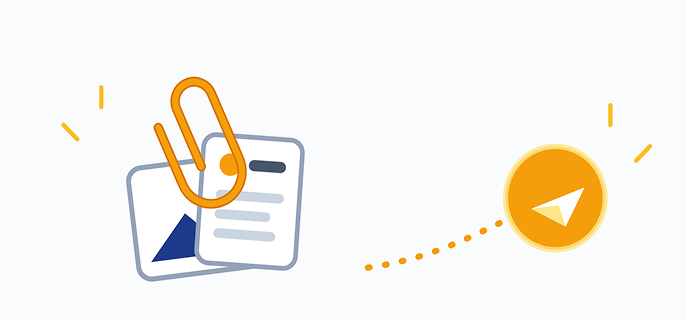
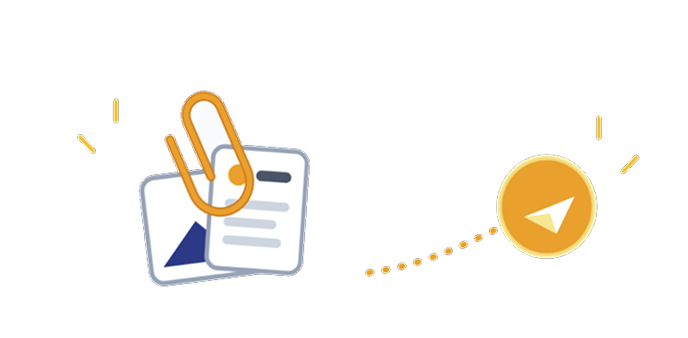
피그마 랜딩페이지_커리어코치(6:148) 기준 최신화: 투명 일러스트 6종 교체·회색 박스 제거·표시 비율 갱신, 스텝 4개 한 줄 문구, 좁은 화면 줄수 보정, 검수 기준을 섹션→프레임으로 변경

diff --git a/index.html b/index.html
@@ -77,7 +77,8 @@ fbq('track', 'PageView');
   .eyebrow{color:var(--amber-600)}
   .headline{color:var(--navy-900);text-align:center;white-space:pre-line}
   .lead{color:var(--gray-600);text-align:center;white-space:pre-line}
-  .illust{width:100%;border-radius:12px;display:block;background:var(--gray-100)}
+  /* 일러스트는 배경이 투명한 PNG — 회색 박스를 씌우지 않는다 (2026-08-01, 신규 6종) */
+  .illust{width:100%;border-radius:12px;display:block}
 
   /* ===== 히어로 ===== */
   .hero-badge{background:var(--amber-100);color:var(--amber-600);padding:7px 15px;border-radius:999px}
@@ -171,6 +172,13 @@ fbq('track', 'PageView');
   .floating-cta:active{transform:translateX(-50%) scale(.98)}
   .floating-cta svg{flex:none}
 
+  /* 360px급 좁은 화면(갤럭시 등)에서도 피그마와 같은 줄 수를 유지한다.
+     390px에서는 2줄인 헤딩 2곳과 스텝4가 360px에서 한 줄씩 더 늘어나는 것을 막는 최소 보정. */
+  @media (max-width:389px){
+    .headline{font-size:27px;line-height:35px}
+    .step .t-h3{font-size:16px}
+  }
+
   @media (prefers-reduced-motion: no-preference){
     section{opacity:0;transform:translateY(12px);transition:opacity .5s ease,transform .5s ease}
     section.in{opacity:1;transform:none}
@@ -204,7 +212,7 @@ fbq('track', 'PageView');
         <h2 class="t-display headline">관심 있는 회사 공고가 열리면
 일단 지원해 보세요</h2>
       </div>
-      <img class="illust" src="assets/img-apply.png" alt="이력서 제출 일러스트" width="344" height="160">
+      <img class="illust" src="assets/img-apply.png" alt="이력서 제출 일러스트" width="344" height="169">
       <p class="t-body" style="color:var(--gray-700);width:100%">지금 가지고 있는 포트폴리오·이력서로 일단 넣으세요.<br><strong>불합격 해도 다음 지원에 패널티가 전혀 없어요.</strong><br>오히려 여러 번 도전하면, ‘우리 회사를 이렇게 좋아하면 잘 적응할 확률이 크다’고 판단해 더 좋게 봐요.<br><strong>붙으면 희소식, 안붙어도 손해 X. 안 할 이유가 없어요.</strong><br>결국 결과를 얻은 건 실행하는 사람들이었어요.</p>
     </section>
 
@@ -216,7 +224,7 @@ fbq('track', 'PageView');
       </div>
       <p class="t-body-l lead">관심 기업의 원하던 공고가
 내가 모르는 사이 닫히는 경우, 생각보다 많아요.</p>
-      <img class="illust" src="assets/img-fomo.png" alt="추적한 채용공고의 57%가 30일 안에 마감됐음을 보여주는 게이지 그래프" width="344" height="228">
+      <img class="illust" src="assets/img-fomo.png" alt="추적한 채용공고의 57%가 30일 안에 마감됐음을 보여주는 게이지 그래프" width="344" height="172">
     </section>
 
     <!-- 3. 초반 지원 우위 -->
@@ -227,7 +235,7 @@ fbq('track', 'PageView');
 이력서가 더 꼼꼼히 읽힙니다.</h2>
       </div>
       <p class="t-body-l lead">인사 담당자도 사람이다보니, 현실적으로 이력서가 수백 개 쌓였을 때 들어오는 이력서는 꼼꼼히 보기 힘들어요.</p>
-      <img class="illust" src="assets/img-speed.png" alt="첫날 지원 우위 일러스트" width="344" height="224">
+      <img class="illust" src="assets/img-speed.png" alt="첫날 지원 우위 일러스트" width="344" height="257">
     </section>
 
     <!-- 4. 데일리 알림 (목업 1) -->
@@ -296,7 +304,7 @@ fbq('track', 'PageView');
       </div>
       <p class="t-body-l lead">17개 채용사이트 × 직군 키워드 평균 3개 = 매일 51회.
 저희가 대신 검색하고 카톡 1개로 압축해 드려요.</p>
-      <img class="illust" src="assets/img-save.png" alt="시간 절약 일러스트" width="344" height="228">
+      <img class="illust" src="assets/img-save.png" alt="시간 절약 일러스트" width="344" height="236">
     </section>
 
     <!-- 7. 개인화 -->
@@ -308,7 +316,7 @@ fbq('track', 'PageView');
       </div>
       <p class="t-body-l lead">원하는 직군·연차·근무지를 알려주시면,
 저희가 맞춤으로 알려드릴게요.</p>
-      <img class="illust" src="assets/img-personal.png" alt="개인화 설정 일러스트" width="344" height="230">
+      <img class="illust" src="assets/img-personal.png" alt="개인화 설정 일러스트" width="344" height="248">
     </section>
 
     <!-- 8. 인사이트 (목업 2) -->
@@ -356,10 +364,8 @@ fbq('track', 'PageView');
       <div class="steps">
         <div class="step"><div class="num t-body-strong">1</div><div class="t-h3">원하는 직군 · 연차 · 지역 설정</div></div>
         <div class="step"><div class="num t-body-strong">2</div><div class="t-h3">매일 아침 8시 카카오 알림톡</div></div>
-        <div class="step"><div class="num t-body-strong">3</div><div class="t-h3">지원자가 많아지기 전에 지원
-→ 서류 합격률 상승</div></div>
-        <div class="step"><div class="num t-body-strong">4</div><div class="t-h3">1분 업계 동향·인사이트 학습
-→ 면접 합격률 상승</div></div>
+        <div class="step"><div class="num t-body-strong">3</div><div class="t-h3">지원자가 많아지기 전에 지원</div></div>
+        <div class="step"><div class="num t-body-strong">4</div><div class="t-h3">1분 업계 동향·인사이트 학습해 면접</div></div>
       </div>
     </section>
 
